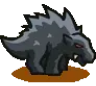
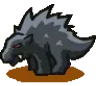
управление кнопками

diff --git a/public/static/js/monsters.js b/public/static/js/monsters.js
@@ -23,13 +23,15 @@ const monster2 = {
 }
 
 const monster3 = {
-    hp: 100,
-    maxhp: 100,
+    hp: 60,
+    maxhp: 60,
     speed: 3,
-    cost: 10,
-    width: 50,
-    height: 50,
-    name: "monster3"
+    cost: 60,
+    width: 96,
+    height: 86,
+    type: "walking",
+    name: "monster3",
+    baseTime: [10, 13, 12, 15],
 }
 
 const monster4 = {
@@ -84,6 +86,24 @@ const monster2_step3_rev = new Image();
 monster2_step3_rev.src = "../static/images/monster2_step3_rev.png";
 const monster2_step4_rev = new Image();
 monster2_step4_rev.src = "../static/images/monster2_step4_rev.png";
+const monster3_step1 = new Image();
+monster3_step1.src = "../static/images/monster3_step1.png";
+const monster3_step2 = new Image();
+monster3_step2.src = "../static/images/monster3_step2.png";
+const monster3_step3 = new Image();
+monster3_step3.src = "../static/images/monster3_step3.png";
+const monster3_step4 = new Image();
+monster3_step4.src = "../static/images/monster3_step4.png";
+const monster3_step1_rev = new Image();
+monster3_step1_rev.src = "../static/images/monster3_step1_rev.png";
+const monster3_step2_rev = new Image();
+monster3_step2_rev.src = "../static/images/monster3_step2_rev.png";
+const monster3_step3_rev = new Image();
+monster3_step3_rev.src = "../static/images/monster3_step3_rev.png";
+const monster3_step4_rev = new Image();
+monster3_step4_rev.src = "../static/images/monster3_step4_rev.png";
+
+
 const image3 = new Image();
 image3.src = "../static/images/monster3.png";
 const image4 = new Image();
@@ -144,6 +164,31 @@ monster2_step3_rev.onload = () => {
 }
 monster2_step4_rev.onload = () => {
     monster2.step4_rev = monster2_step4_rev;
+}
+
+monster3_step1.onload = () => {
+    monster3.step1 = monster3_step1;
+}
+monster3_step2.onload = () => {
+    monster3.step2 = monster3_step2;
+}
+monster3_step3.onload = () => {
+    monster3.step3 = monster3_step3;
+}
+monster3_step4.onload = () => {
+    monster3.step4 = monster3_step4;
+}
+monster3_step1_rev.onload = () => {
+    monster3.step1_rev = monster3_step1_rev;
+}
+monster3_step2_rev.onload = () => {
+    monster3.step2_rev = monster3_step2_rev;
+}
+monster3_step3_rev.onload = () => {
+    monster3.step3_rev = monster3_step3_rev;
+}
+monster3_step4_rev.onload = () => {
+    monster3.step4_rev = monster3_step4_rev;
 }
 
 image3.onload = () => {

diff --git a/public/static/js/attack_play.js b/public/static/js/attack_play.js
@@ -177,12 +177,12 @@ function lvlComplete() {
 // }
 
 function sendNextlvlParams() {
-    let nikcname = nextLvlForm.elements.nickname;
+    let gameId = nextLvlForm.elements.gameId;
     let money = nextLvlForm.elements.money;
     let score = nextLvlForm.elements.score;
     let currLvl = nextLvlForm.elements.currLvl;
     let mobsUnlock = nextLvlForm.elements.mobs_unlock;
-    nikcname.value = String(GAME.player);
+    gameId.value = String(GAME.player);
     money.value = String(GAME.money);
     score.value = String(GAME.score);
     currLvl.value = String(GAME.lvlCount);
@@ -294,32 +294,39 @@ async function sendResults(event) {
     });
 }
 
-startWaveBtn.addEventListener(
-    "click",
-    () => {
-        if (GAME.isPlay == 'wavepause') {
-            startWaveBtn.classList.add("active");
-            GAME.isPlay = 'startgame';
-        } 
-    }
-)
+function startWave() {
+    if (GAME.isPlay == 'wavepause') {
+        startWaveBtn.classList.add("active");
+        GAME.isPlay = 'startgame';
+    } 
+}
 
-pauseGameBtn.addEventListener(
-    "click",
-    () => {
-        if (GAME.isPlay == 'play') {
-            pauseGameBtn.classList.remove("play");
-            pauseGameBtn.classList.add("pause");
-            GAME.isPlay = 'menu';
-        } else {
-            if (GAME.isPlay == 'menu') {
-                pauseGameBtn.classList.remove("pause");
-                pauseGameBtn.classList.add("play");
-                GAME.isPlay = 'play';
-            }
+function pauseGame() {
+    if (GAME.isPlay == 'play') {
+        pauseGameBtn.classList.remove("play");
+        pauseGameBtn.classList.add("pause");
+        GAME.isPlay = 'menu';
+    } else {
+        if (GAME.isPlay == 'menu') {
+            pauseGameBtn.classList.remove("pause");
+            pauseGameBtn.classList.add("play");
+            GAME.isPlay = 'play';
         }
     }
-)
+}
+
+startWaveBtn.addEventListener("click", () => { startWave() });
+pauseGameBtn.addEventListener("click", () => { pauseGame() });
+document.addEventListener("keydown", (event) => {
+    switch(event.code) {
+        case 'Space':
+            pauseGame();
+            break;
+        case 'Enter':
+            startWave();
+            break;
+    }
+})
 
 nextBtn.addEventListener(
     "submit",

diff --git a/public/static/js/defense.js b/public/static/js/defense.js
@@ -244,20 +244,6 @@ function changeMap() {
     }
 };
 
-function changeLvlDev(devlvl) {
-    GAME.lvlCount = parseInt(devlvl.value);
-    lvl = lvls[GAME.lvlCount - 1];
-    GAME.castleHP = lvl.castleHP;
-    GAME.wave = 1;
-    monstercount = 0;
-    starttime = 900;
-    GAME.isPlay = 'wavepause';
-    pushmonstercount = 0;
-    steptimer = 0;
-    stepcounter = 1;
-    changeMap();
-}
-
 async function sendResults(event) {
     const score = document.querySelector(".score__value");
     event.preventDefault();
@@ -277,32 +263,39 @@ async function sendResults(event) {
     });
 }
 
-startWaveBtn.addEventListener(
-    "click",
-    () => {
-        if (GAME.isPlay == 'wavepause') {
-            startWaveBtn.classList.add("active");
-            GAME.isPlay = 'startgame';
-        } 
-    }
-)
+function startWave() {
+    if (GAME.isPlay == 'wavepause') {
+        startWaveBtn.classList.add("active");
+        GAME.isPlay = 'startgame';
+    } 
+}
 
-pauseGameBtn.addEventListener(
-    "click",
-    () => {
-        if (GAME.isPlay == 'play') {
-            pauseGameBtn.classList.remove("play");
-            pauseGameBtn.classList.add("pause");
-            GAME.isPlay = 'menu';
-        } else {
-            if (GAME.isPlay == 'menu') {
-                pauseGameBtn.classList.remove("pause");
-                pauseGameBtn.classList.add("play");
-                GAME.isPlay = 'play';
-            }
+function pauseGame() {
+    if (GAME.isPlay == 'play') {
+        pauseGameBtn.classList.remove("play");
+        pauseGameBtn.classList.add("pause");
+        GAME.isPlay = 'menu';
+    } else {
+        if (GAME.isPlay == 'menu') {
+            pauseGameBtn.classList.remove("pause");
+            pauseGameBtn.classList.add("play");
+            GAME.isPlay = 'play';
         }
     }
-)
+}
+
+startWaveBtn.addEventListener("click", () => { startWave() });
+pauseGameBtn.addEventListener("click", () => { pauseGame() });
+document.addEventListener("keydown", (event) => {
+    switch(event.code) {
+        case 'Space':
+            pauseGame();
+            break;
+        case 'Enter':
+            startWave();
+            break;
+    }
+})
 
 nextBtn.addEventListener(
     "click",

diff --git a/public/pages/attack_play.html b/public/pages/attack_play.html
@@ -109,11 +109,12 @@
         <div class="popupcomplete">
             <h1 class="complete">LEVEL COMPLETE</h1>
             <form id="next-lvl-form" class="hidden" method="POST" enctype="multipart/form-data">
-                <input type="text" name="mobs_unlock" required />
+                <input type="text" name="gameId" required />
                 <input type="text" name="money" required />
                 <input type="text" name="score" required />
-                <input type="text" name="currLvl" required />
+                <input type="text" name="currentLvl" required />
                 <input type="text" name="nikcname" required />
+                <input type="text" name="mobs_unlock" required />
                 <div class="next-lvl-container">
                     <input class="next-lvl-btn" id="next-lvl-btn" type="submit" value="Next level">
                 </div>

diff --git a/public/static/js/lvls.js b/public/static/js/lvls.js
@@ -11,7 +11,7 @@ const lvl1 = {
     castle_h: 400,
     money: 100,
     start_dir: 'r',
-    waves: [[monster1, monster1], [monster1, monster1, monster1, monster2], [monster2, monster1, monster1, monster1, monster1]],
+    waves: [[monster1, monster3], [monster1, monster1, monster1, monster2], [monster2, monster1, monster1, monster1, monster1]],
     atk_towers: [[archer], [archer, bash], [bash, archer]],
     bonuses: ["fireball"],
     back_src:  "../static/images/MAP1.png",
